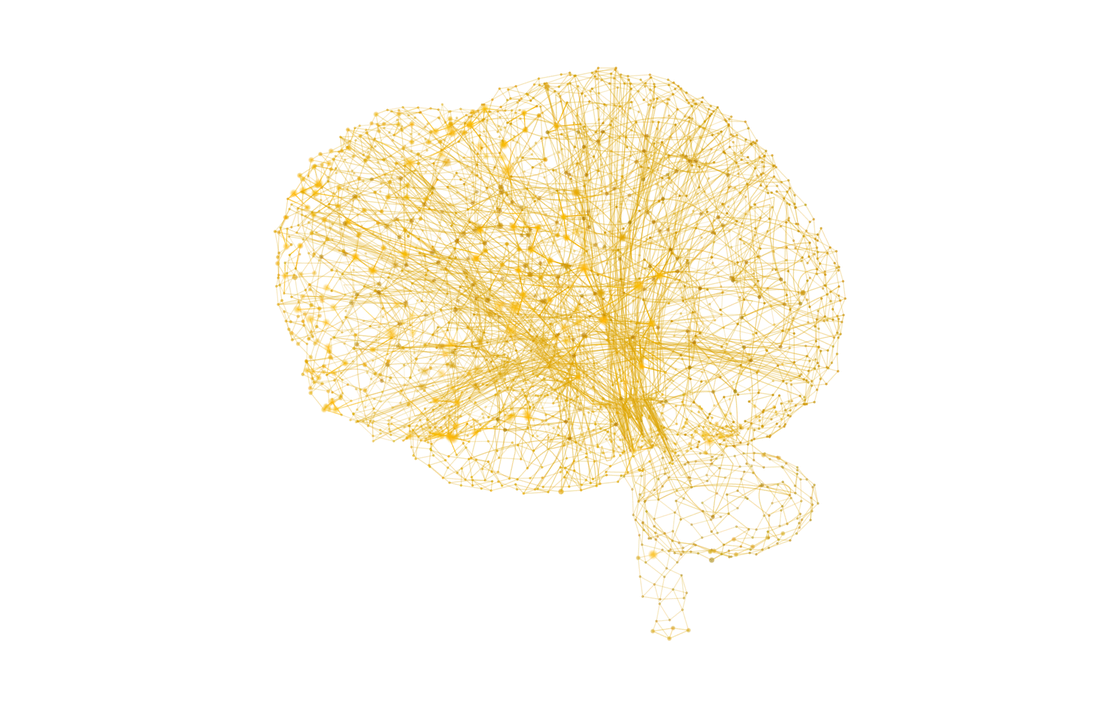
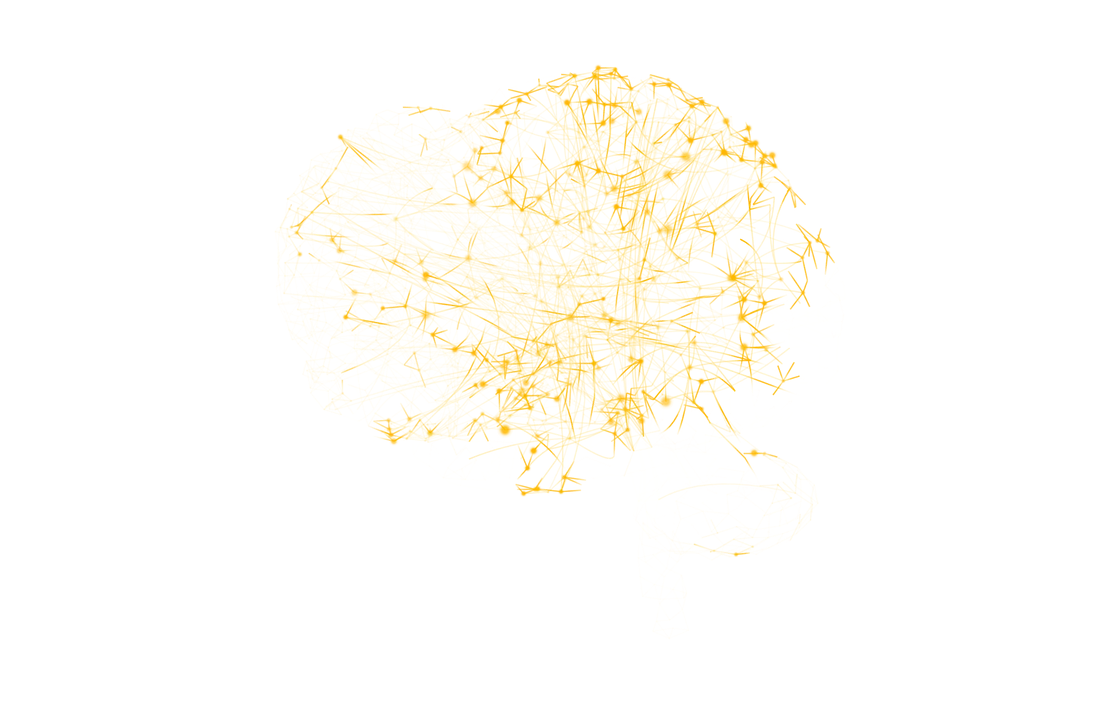
Brain: transparent network, only the electrical impulses are yellow
- The neural network is invisible at rest (no lines, no dots). Only the impulse is drawn,
  in yellow: the spark running along each connection, the glow it leaves behind, and the
  neuron that lights up when it is reached. The brain shows through the impulses.
- Firing times are spread evenly over a 6 second cycle with a monotonic time warp, and the
  speed of each connection is recomputed so the impulse still arrives exactly when the
  receiving neuron fires. The brain is never empty. Eight foci start almost together.
- The clock starts mid-cycle and the hero poster is taken at the same instant, so the
  poster hands over to the live brain without a jump.

Claude-Session: https://claude.ai/code/session_019G1kqDvjGATNWvKmmVUEiP

Changed region(s): [[0.25, 0.0917, 0.75, 0.8861]]

diff --git a/assets/js/agent/brain-neurons.js b/assets/js/agent/brain-neurons.js
@@ -3,7 +3,7 @@
 // blanche. Ils sont reliés à leurs voisins (connexions courtes) et par de longs faisceaux courbes : association (d'une circonvolution à l'autre),
 // commissurales (d'un hémisphère à l'autre), de projection (du cortex vers le centre et le tronc) et du cervelet.
 //
-// L'influx nerveux saute de neurone en neurone. Six foyers s'allument à tour de rôle ; depuis chacun, le signal gagne ses voisins par un plus court
+// L'influx nerveux saute de neurone en neurone. Quatorze foyers s'allument à tour de rôle ; depuis chacun, le signal gagne ses voisins par un plus court
 // chemin (Dijkstra) : une connexion courte prend un instant, un long faisceau est bien plus rapide, et chaque neurone ajoute un petit délai de
 // synapse. Chaque neurone s'allume donc une fois par cycle, à l'instant où le signal l'atteint, puis son influx repart sur toutes les connexions
 // vers les neurones encore au repos. Tout est calculé ici, une fois ; le shader n'a qu'à lire l'heure de chaque neurone et de chaque connexion.
@@ -14,13 +14,13 @@
 //   (positions, longueurs et vitesses sont dans le repère du modèle ; le constructeur les ramène dans le repère final avec le même facteur d'échelle)
 import { rng } from './voxel.js';
 
-export const NET_CYCLE = 9.0;                     // secondes : le cycle complet des six foyers
+export const NET_CYCLE = 6.0;                     // secondes : le cycle complet des foyers
 const SYN = 0.06;                                 // le délai de synapse d'un neurone
 const V_SHORT = 0.55; const V_LONG = 2.2;         // vitesse de l'influx, en unités du modèle par seconde
 const norm3 = (v) => { const l = Math.hypot(v[0], v[1], v[2]) || 1; return [v[0] / l, v[1] / l, v[2] / l]; };
 
-/** Les foyers : où naît le signal. Quatre sur le cortex visible, un au cervelet, un au coeur du cerveau. */
-const FOCI = [[-0.8, 0.16, 0.5], [0.16, 0.66, 0.3], [0.92, 0.0, 0.2], [0.2, -0.54, 0.5], [0.62, -0.8, 0.3], [0.1, -0.15, 0.0]];
+/** Le premier foyer (au lobe frontal) ; les autres s'en déduisent, voir plus bas. */
+const FOCI = [[-0.8, 0.16, 0.5]];
 
 export function makeNeuralNet({ pos, nrm, sdf, tagAt, bbox }, { weak = false, seed = 11 } = {}) {
   const R = rng(seed);
@@ -216,15 +216,25 @@ export function makeNeuralNet({ pos, nrm, sdf, tagAt, bbox }, { weak = false, se
     adjTo[fill[e.a]] = e.b; adjW[fill[e.a]++] = w; adjTo[fill[e.b]] = e.a; adjW[fill[e.b]++] = w;
   });
   const dist = new Float32Array(N).fill(1e9);
-  const foci = FOCI.map((f, k) => {                                // le neurone le plus proche de chaque foyer (le cortex visible pour les cinq premiers)
-    let best = 1e9; let bi = 0;
-    for (let i = 0; i < N; i++) {
-      if (k < 5 ? (kind[i] !== 0 || P[i * 3 + 2] < 0.04) : kind[i] !== 1) continue;
-      const d = (P[i * 3] - f[0]) ** 2 + (P[i * 3 + 1] - f[1]) ** 2 + (P[i * 3 + 2] - f[2]) ** 2;
-      if (d < best) { best = d; bi = i; }
+  // les foyers : le premier au lobe frontal, chacun des suivants le plus loin possible des précédents (l'activité se promène d'une région à l'autre), et un relais
+  // profond au milieu de la liste.
+  const nFoci = weak ? 6 : 8;
+  const foci = [];
+  {
+    const d2 = (i, j) => (P[i * 3] - P[j * 3]) ** 2 + (P[i * 3 + 1] - P[j * 3 + 1]) ** 2 + (P[i * 3 + 2] - P[j * 3 + 2]) ** 2;
+    let first = 0; let bd = 1e9;
+    for (let i = 0; i < nCortex; i++) { const d = (P[i * 3] - FOCI[0][0]) ** 2 + (P[i * 3 + 1] - FOCI[0][1]) ** 2 + (P[i * 3 + 2] - FOCI[0][2]) ** 2; if (d < bd) { bd = d; first = i; } }
+    foci.push(first);
+    const near = new Float32Array(nCortex).fill(1e9);
+    while (foci.length < nFoci - 1) {
+      const last = foci[foci.length - 1]; let far = -1; let fd = -1;
+      for (let i = 0; i < nCortex; i++) { const d = d2(i, last); if (d < near[i]) near[i] = d; if (near[i] > fd) { fd = near[i]; far = i; } }
+      foci.push(far);
     }
-    return bi;
-  });
+    let deep = nCortex; let dd = 1e9;                              // le relais profond le plus proche du centre
+    for (let i = nCortex; i < N; i++) { const d = (P[i * 3] - 0.1) ** 2 + (P[i * 3 + 1] + 0.15) ** 2 + P[i * 3 + 2] ** 2; if (d < dd) { dd = d; deep = i; } }
+    foci.splice(Math.floor(nFoci / 2), 0, deep);
+  }
   const heapN = []; const heapD = [];
   const push = (n, d) => { let i = heapN.length; heapN.push(n); heapD.push(d); while (i > 0) { const p = (i - 1) >> 1; if (heapD[p] <= heapD[i]) break; [heapN[p], heapN[i]] = [heapN[i], heapN[p]]; [heapD[p], heapD[i]] = [heapD[i], heapD[p]]; i = p; } };
   const pop = () => {
@@ -233,7 +243,7 @@ export function makeNeuralNet({ pos, nrm, sdf, tagAt, bbox }, { weak = false, se
     return [n, d];
   };
   foci.forEach((src, k) => {
-    const t0 = k * (NET_CYCLE / FOCI.length);
+    const t0 = k * 0.35;                                            // les foyers partent presque ensemble : autant de fronts qui s'étendent à la fois
     const D = new Float32Array(N).fill(1e9); D[src] = 0; push(src, 0);
     while (heapN.length) {
       const [u, d] = pop();
@@ -242,15 +252,32 @@ export function makeNeuralNet({ pos, nrm, sdf, tagAt, bbox }, { weak = false, se
     }
     for (let i = 0; i < N; i++) if (t0 + D[i] < dist[i]) dist[i] = t0 + D[i];
   });
-  const fire = (i) => ((dist[i] % NET_CYCLE) + NET_CYCLE) % NET_CYCLE;     // l'instant du cycle où le neurone s'allume
+  // L'égalisation du temps : l'influx met environ deux secondes à gagner tout le cerveau, et la plupart des neurones s'allument au milieu de ce temps ; le
+  // reste du cycle serait vide. On répartit donc les instants de façon uniforme sur tout le cycle par une transformation croissante g (la fonction de
+  // répartition des instants de tir). Elle s'applique à tous les événements, et la vitesse de chaque connexion est recalculée pour que l'influx arrive
+  // juste quand le neurone qui le reçoit s'allume : le calendrier reste exact, seule la vitesse de l'influx varie d'une région du cycle à l'autre.
+  const sorted = Float32Array.from(dist).sort();
+  const g = (t) => {
+    let lo = 0; let hi = N;
+    while (lo < hi) { const m = (lo + hi) >> 1; if (sorted[m] < t) lo = m + 1; else hi = m; }
+    if (lo <= 0) return 0;
+    if (lo >= N) return NET_CYCLE * (N - 0.5) / N;
+    const a0 = sorted[lo - 1]; const a1 = sorted[lo];
+    return NET_CYCLE * (lo - 1 + (a1 > a0 ? (t - a0) / (a1 - a0) : 0.5)) / N;
+  };
+  const fire = (i) => Math.min(NET_CYCLE - 0.001, g(dist[i]));
 
-  // 6. les tableaux pour le dessin : chaque connexion est orientée du neurone qui s'allume le premier vers l'autre, et part un délai de synapse après
+  // 6. les tableaux pour le dessin : chaque connexion est orientée du neurone qui s'allume le premier vers l'autre. L'influx part un délai de synapse après le tir
+  // et arrive à l'instant où le neurone reçoit le signal (jamais en moins de 0,12 s : on veut voir la progression de neurone en neurone).
   const segs = []; const fibs = [];
   edges.forEach((e, k) => {
     const { pts, len } = lines[k];
     let from = e.a; let line = pts;
     if (dist[e.b] < dist[e.a]) { from = e.b; line = pts.slice().reverse(); }
-    const start = fire(from) + SYN; const speed = e.long ? V_LONG : V_SHORT;
+    const w = len / (e.long ? V_LONG : V_SHORT) + SYN;                // la durée physique du trajet et de la synapse
+    const start = fire(from) + SYN;
+    const arrive = Math.min(NET_CYCLE, g(dist[from] + w));          // l'instant (égalisé) où le signal arrive
+    const speed = len / Math.max(0.12, arrive - start);
     let acc = 0;
     for (let s = 0; s < line.length - 1; s++) {
       const d = Math.hypot(line[s + 1][0] - line[s][0], line[s + 1][1] - line[s][1], line[s + 1][2] - line[s][2]);

diff --git a/assets/js/agent/smooth.js b/assets/js/agent/smooth.js
@@ -158,17 +158,16 @@ totalEmissiveRadiance += vColor.rgb * (vMat.z * vEm * 1.1) + uGlow * (vGlow * 0.
 }
 
 /**
- * Le cerveau : entièrement transparent, on n'en voit que le réseau de neurones. Les connexions sont des rubans fins qui s'éclairent quand l'influx les
- * parcourt, les neurones des pastilles qui s'allument quand il les atteint. Le calendrier (qui s'allume quand, dans un cycle) est précalculé dans le worker
- * (brain-neurons.js) : le shader lit seulement l'heure. La lumière est ambrée sur le bleu profond de la marque, plus pâle au fond du cerveau.
+ * Le cerveau : entièrement transparent, le réseau de neurones lui-même est invisible. On ne voit que l'influx électrique, en jaune : une étincelle qui court sur chaque
+ * connexion, la lueur qu'elle laisse derrière elle, et le neurone qui s'allume quand elle l'atteint. Le calendrier (qui s'allume quand, dans un cycle) est précalculé
+ * dans le worker (brain-neurons.js) : le shader lit seulement l'heure. Les impulsions dessinent le cerveau en passant.
  */
 function makeNeuralNet(THREE, net, shared) {
   // des jaunes, écrits tels qu'on les veut à l'écran (le shader écrit directement dans le canevas : pas de conversion de couleur)
   const D = (hex) => new THREE.Color().setHex(hex, THREE.LinearSRGBColorSpace);
-  const tints = [0xd9a000, 0xcf9600, 0xe2ae10, 0xc58f00, 0xbd9a3a, 0xa87c00].map(D);
   Object.assign(shared, {
-    uRes: { value: new THREE.Vector2(1, 1) }, uWidth: { value: 1.4 }, uPx: { value: 2.0 }, uDepthR: { value: 1 }, uSizePx: { value: 300 }, uCycle: { value: net.cycle }, uSigma: { value: net.sigma },
-    uBase: { value: D(0xdca300) }, uGlow2: { value: D(0xffb800) }, uTints: { value: tints },
+    uRes: { value: new THREE.Vector2(1, 1) }, uWidth: { value: 1.7 }, uPx: { value: 2.0 }, uDepthR: { value: 1 }, uSizePx: { value: 300 }, uCycle: { value: net.cycle }, uSigma: { value: net.sigma },
+    uBase: { value: D(0xffd34d) }, uGlow2: { value: D(0xffb800) },
   });
   const quad = () => {
     const g = new THREE.InstancedBufferGeometry();
@@ -208,18 +207,18 @@ void main() {
 varying float vU; varying vec4 vF; varying float vDepth;
 uniform float uTime; uniform float uDis; uniform float uCycle; uniform float uSigma; uniform float uSizePx; uniform vec3 uBase; uniform vec3 uGlow2;
 void main() {
-  float len = vF.z;
+  float len = vF.z; float speed = vF.y;
   float cyc = mod(uTime - vF.x, uCycle);                       // le temps écoulé depuis le départ de l'influx sur cette connexion
-  float head = cyc * vF.y;                                     // où est la tête de l'influx, dans l'unité du modèle
-  float d = vU * len - head;
-  float pulse = exp(-d * d / (2.0 * uSigma * uSigma)) * step(head, len + 3.0 * uSigma);
-  float tail = d < 0.0 ? exp(d / (5.0 * uSigma)) * 0.4 * step(head, len + 8.0 * uSigma) : 0.0;
-  float p = clamp(pulse + tail, 0.0, 1.0);
-  float depthK = mix(0.3, 1.0, smoothstep(-0.9, 0.9, vDepth));
-  float densK = clamp(pow(uSizePx / 330.0, 1.6), 0.3, 1.0);       // plus le cerveau est petit, plus ses connexions se superposent : on les allège
-  float base = mix(0.3, 0.44, vF.w) * densK;
-  float a = (base + (0.95 - base) * p) * depthK * (1.0 - smoothstep(0.0, 0.5, uDis));
-  vec3 c = mix(uBase, uGlow2, clamp(p * 1.3, 0.0, 1.0));
+  float d = vU * len - cyc * speed;                            // la distance à la tête de l'influx, dans l'unité du modèle
+  float head = exp(-d * d / (2.0 * uSigma * uSigma));          // la tête : une brève étincelle
+  float tp = cyc - vU * len / speed;                           // le temps écoulé depuis que la tête est passée ici (négatif : elle n'est pas encore arrivée)
+  float glow = tp > 0.0 ? exp(-tp / 0.8) : 0.0;                // la connexion reste allumée un instant derrière l'influx
+  float p = clamp(head + 0.5 * glow, 0.0, 1.0);
+  float depthK = mix(0.35, 1.0, smoothstep(-0.9, 0.9, vDepth));
+  float densK = clamp(pow(uSizePx / 330.0, 1.6), 0.35, 1.0);    // plus le cerveau est petit, plus ses impulsions se superposent : on les allège
+  float a = p * (0.82 + 0.18 * vF.w) * mix(0.75, 1.0, densK) * depthK * (1.0 - smoothstep(0.0, 0.5, uDis));
+  if (a < 0.004) discard;                                      // au repos le réseau est transparent : rien n'est dessiné
+  vec3 c = mix(uBase, uGlow2, clamp(head * 1.2, 0.0, 1.0));
   gl_FragColor = vec4(c, a);
 }`,
   }));
@@ -243,9 +242,9 @@ void main() {
   vec4 mv = modelViewMatrix * vec4(iN.xyz, 1.0);
   vec4 cp = projectionMatrix * mv;
   float cyc = mod(uTime - iN.w, uCycle);                       // le temps écoulé depuis que ce neurone s'est allumé
-  float flash = exp(-cyc * 3.2);
+  float flash = exp(-cyc * 1.8);                               // l'éclat dure environ une seconde et demie
   vFlash = flash; vTint = iT.x;
-  float rpx = uPx * iT.y * (1.0 + 2.6 * flash);
+  float rpx = uPx * iT.y * (0.6 + 2.8 * flash);
   vec2 c2 = vec2(corner.x * 2.0 - 1.0, corner.y);
   vC = c2;
   gl_Position = cp + vec4(c2 * rpx * 2.0 / uRes * cp.w, 0.0, 0.0);
@@ -254,17 +253,17 @@ void main() {
 }`,
     fragmentShader: `precision highp float;
 varying vec2 vC; varying float vFlash; varying float vTint; varying float vDepth;
-uniform float uDis; uniform float uSizePx; uniform vec3 uGlow2; uniform vec3 uTints[6];
+uniform float uDis; uniform float uSizePx; uniform vec3 uBase; uniform vec3 uGlow2;
 void main() {
   float r = length(vC);
   if (r > 1.0) discard;
-  vec3 rest = uTints[int(vTint + 0.5)];
-  float core = 1.0 - smoothstep(0.55, 1.0, r);                 // une pastille nette au repos
-  float glow = exp(-r * r * 3.6);                              // un halo qui s'ouvre quand le neurone s'allume
-  float k = clamp(vFlash * 1.6, 0.0, 1.0);
-  float densK = clamp(pow(uSizePx / 330.0, 1.6), 0.3, 1.0);
-  float a = mix(core * 0.8 * mix(0.6, 1.0, densK), glow * 0.95 + core * 0.3, k);
-  vec3 c = mix(rest, uGlow2, k);
+  float k = clamp(vFlash * 1.5, 0.0, 1.0);                     // un neurone n'existe à l'écran que lorsqu'il s'allume
+  float core = 1.0 - smoothstep(0.35, 0.8, r);
+  float glow = exp(-r * r * 3.4);
+  float densK = clamp(pow(uSizePx / 330.0, 1.6), 0.35, 1.0);
+  float a = k * (glow * 0.85 + core * 0.4) * mix(0.75, 1.0, densK);
+  if (a < 0.004) discard;
+  vec3 c = mix(uBase, uGlow2, clamp(k * 1.3, 0.0, 1.0));
   float depthK = mix(0.35, 1.0, smoothstep(-0.9, 0.9, vDepth));
   gl_FragColor = vec4(c, clamp(a, 0.0, 1.0) * depthK * (1.0 - smoothstep(0.0, 0.5, uDis)));
 }`,
@@ -366,7 +365,7 @@ export function createSmooth(THREE, agent, shapes, { palette, weak = false, onRe
     s.group.visible = show;
     if (!show) return;
     if (s.shared) { s.shared.uDis.value = dissolve; s.shared.uTime.value = time; }
-    if (s.net) { agent.renderer.getDrawingBufferSize(size); const px = size.y / Math.max(1, agent.renderer.domElement.clientHeight); s.shared.uRes.value.copy(size); s.shared.uWidth.value = 1.4 * px; s.shared.uPx.value = 2.0 * px; }
+    if (s.net) { agent.renderer.getDrawingBufferSize(size); const px = size.y / Math.max(1, agent.renderer.domElement.clientHeight); s.shared.uRes.value.copy(size); s.shared.uWidth.value = 1.7 * px; s.shared.uPx.value = 2.0 * px; }
     for (const m of s.meshes) { const u = m.material.userData && m.material.userData.u; if (u && u.uDis && m.material.userData.u !== s.shared) { u.uDis.value = dissolve; u.uTime.value = time; if (u.uLook) { u.uLook.value.set(look ? look.x : 0, look ? look.y : 0); u.uAnim.value = 1 - clamp(dissolve * 2.5); u.uWave.value = wave; } } }
   };
 

diff --git a/assets/js/agent/director.js b/assets/js/agent/director.js
@@ -66,7 +66,7 @@ export async function startAgent({ canvas, low = false, frozen = null }) {
   const fit = (r, k, f = 0.95) => Math.min((r.width / 2) / ext[k][0], (r.height / 2) / ext[k][1]) * f;
 
   // l'état amorti
-  const S = { step: 1, shownAt: null, brainSeen: false, look: { x: 0, y: 0 }, P: null, u: null, time: 0, vy: 0, py: null, spinT: 9, burst: 0, hover: 0, click: null };
+  const S = { step: 1, shownAt: null, brainSeen: false, look: { x: 0, y: 0 }, P: null, u: null, time: 2.2, vy: 0, py: null, spinT: 9, burst: 0, hover: 0, click: null };
   let last = performance.now();
   const dbg = { a: 0, b: 0, mix: 0, u: 0, P: 0, anchor: null, n };
 

diff --git a/README.md b/README.md
@@ -8,14 +8,14 @@ Le site est blanc, épuré, dans l'esprit d'une landing page SaaS, et raconte un
 
 | Page | Rôle |
 | --- | --- |
-| `index.html` | L'accueil, dans cet ordre : **le titre** « Discovering the future of medicine » (le cerveau, un réseau de neurones jaune et transparent, et le titre seul, au centre, tout de suite), **Our why** (la raison d'être, le drug rescue), **Where science meets the startup spirit** (un carrousel infini d'images), **Our agent** (NovaDiff, le robot, et les programmes actuels en puces), **Science** « Small structures. Big questions. » (le récepteur, le binder, la cascade), **le blog** « Our articles for startups & people » (six articles dans un carrousel infini) et **Contact** (un seul bouton, qui répond au curseur). |
+| `index.html` | L'accueil, dans cet ordre : **le titre** « Discovering the future of medicine » (le cerveau transparent, dont seules les impulsions électriques jaunes se voient, et le titre seul, au centre, tout de suite), **Our why** (la raison d'être, le drug rescue), **Where science meets the startup spirit** (un carrousel infini d'images), **Our agent** (NovaDiff, le robot, et les programmes actuels en puces), **Science** « Small structures. Big questions. » (le récepteur, le binder, la cascade), **le blog** « Our articles for startups & people » (six articles dans un carrousel infini) et **Contact** (un seul bouton, qui répond au curseur). |
 | `careers.html` | Carrières : pourquoi nous rejoindre, profil, compétences et l'offre **Serial Biotech Builder** (garant scientifique, valeur de la licence, exigences d'une vente après l'in vivo, capacité à les défendre). |
 
 ## Ce que fait l'agent (le fil conducteur)
 
 Un même objet traverse la page. Le canevas 3D est **derrière le texte** (l'animation ne passe jamais par-dessus).
 
-1. **Le titre.** Aucune animation d'ouverture : le cerveau est là tout de suite, **entièrement transparent**. Il ne reste que son **réseau de neurones, en jaune** : des milliers de neurones posés sous la peau du cortex (qui dessine les circonvolutions) et au cœur du cerveau, reliés par des connexions courtes et de longs faisceaux. L'influx nerveux **saute de neurone en neurone** : six foyers s'allument à tour de rôle et, depuis chacun, le signal gagne ses voisins par le plus court chemin, une connexion courte prend un instant, un long faisceau est bien plus rapide, et chaque neurone s'allume en recevant le signal avant de le renvoyer. Le titre est affiché en même temps, seul, au centre.
+1. **Le titre.** Aucune animation d'ouverture : le cerveau est là tout de suite, **entièrement transparent**. Son réseau de neurones est invisible : on ne voit que **l'influx électrique, en jaune**. Des milliers de neurones sont posés sous la peau du cortex (qui dessine les circonvolutions) et au cœur du cerveau, reliés par des connexions courtes et de longs faisceaux. L'influx **saute de neurone en neurone** : huit foyers s'allument presque ensemble et, depuis chacun, le signal gagne ses voisins par le plus court chemin, une connexion courte prend un instant, un long faisceau est bien plus rapide, et chaque neurone s'allume en recevant le signal avant de le renvoyer. Les instants de tir sont répartis de façon uniforme sur un cycle de 6 secondes (la vitesse de l'influx s'adapte pour que le signal arrive juste quand le neurone s'allume), si bien que le cerveau n'est jamais vide : les étincelles et leur lueur dessinent ses circonvolutions en passant. Le titre est affiché en même temps, seul, au centre.
 2. **Our why.** Le cerveau glisse à droite du texte.
 3. **De la culture à l'agent.** Le cerveau se brise en petits cubes métalliques qui filent en une traînée fine jusqu'au robot NovaDiff, lisse et réaliste. Le robot est un **vrai personnage animé en 3D** : il se retourne sur lui-même en se formant (un tour, lié au défilement), puis salue ; il flotte, pivote doucement, se penche quand on défile vite, sa tête et ses yeux suivent le curseur, ses yeux clignent, son bras droit salue (l'épaule lève le bras, le coude balance l'avant-bras, le poignet agite la main), son anneau tourne, sa flamme vacille. Le curseur qui s'en approche le fait saluer, **un clic le fait tourner sur lui-même**.
 4. **Science** (une scène épinglée de plusieurs écrans). Le robot descend, se brise en cubes qui se replient en une vraie protéine de style AlphaFold (trois hélices, une épingle bêta, des boucles, colorées par confiance aux teintes de la marque) qui s'insère dans la poche d'un récepteur couplé aux protéines G, dans une membrane. Le récepteur s'active, puis une cascade de signalisation s'allume, nœud après nœud : **une fois la protéine fixée, plus aucune traînée de cubes**, seuls le récepteur, la protéine et la cascade (en maillage) s'animent. À gauche, **une explication simple en quatre étapes** s'allume avec la scène : *choisir une cible* (un récepteur qui commande une voie biologique), *générer par diffusion* (l'agent part du bruit et façonne la protéine pas à pas), *optimiser en temps réel* (il vérifie qu'elle se replie, reste stable et se fixe fermement, jusqu'à être biophysiquement optimisée) puis *activer ou inhiber la voie* (la protéine fait tourner la clé, ou bloque la serrure). Une phrase d'amorce donne l'objectif : concevoir une protéine pour une cible, c'est fabriquer la bonne clé pour la bonne serrure.
@@ -31,7 +31,7 @@ Tout ce qui dépend du défilement est **amorti** (l'animation reste fluide mêm
 | `agent.js` | Le moteur de cubes (three.js, un seul `InstancedMesh`, tout dans les shaders). Les cubes sont des boîtes biseautées, au reflet métallique calculé dans le fragment shader (un studio de lumière). Les cubes partent un à un, filent sur une route courbe commune et se posent ; il y a aussi l'éclaircie des transitions (`uKeep` : seule une fraction des cubes existe pendant un voyage). |
 | `shape-brain.js`, `shape-robot.js`, `shape-ligand.js`, `shape-stream.js` | Les formes : un champ de distance signée, rempli de cubes (coque de voxels). Elles exportent aussi leur champ pour le maillage lisse (`shape-split.js` n'est plus utilisé). |
 | `mesher.js`, `smooth-build.js`, `refine.js`, `brain-neurons.js`, `mesh.worker.js` | Le maillage lisse et le réseau. Surface Nets sur le champ de distance (pour le cerveau, un maillage grossier qui sert seulement à poser les neurones sous la peau du cortex). `brain-neurons.js` fabrique les neurones, les connexions et le calendrier de l'influx (Dijkstra depuis les six foyers, un instant de tir par neurone et par connexion), `refine.js` recoupe pour le robot les seuls triangles qui touchent une frontière entre deux matières. Tout tourne dans un **worker** ; l'affiche (une image du même cerveau) reste à l'écran au plus 25 secondes. |
-| `smooth.js` | Les objets lisses : le cerveau (neurones en pastilles qui s'allument, connexions en rubans fins où court l'influx, tout lu dans un cycle de 9 secondes) et le robot (matériau physique, une matière par sommet : plaques blanches vernies, métal brossé, verre sombre, yeux ambrés qui brillent ; chaque pièce s'anime dans le vertex shader : la **tête suit le curseur**, les **yeux clignent**, les **bras sont écorchés en douceur** (épaule, coude, poignet : le bras droit salue), l'anneau tourne, l'antenne oscille, la flamme vacille ; le mouvement d'ensemble, le tour d'arrivée et le clic sont réglés par `director.js`). Le « dissolve » par cases cubiques utilise le même hachage que le moteur de cubes : jamais de trou ni de doublon. |
+| `smooth.js` | Les objets lisses : le cerveau (réseau invisible, seules les impulsions jaunes se voient : l'étincelle qui court sur chaque connexion, sa lueur, le neurone qui s'allume ; tout est lu dans un cycle de 6 secondes) et le robot (matériau physique, une matière par sommet : plaques blanches vernies, métal brossé, verre sombre, yeux ambrés qui brillent ; chaque pièce s'anime dans le vertex shader : la **tête suit le curseur**, les **yeux clignent**, les **bras sont écorchés en douceur** (épaule, coude, poignet : le bras droit salue), l'anneau tourne, l'antenne oscille, la flamme vacille ; le mouvement d'ensemble, le tour d'arrivée et le clic sont réglés par `director.js`). Le « dissolve » par cases cubiques utilise le même hachage que le moteur de cubes : jamais de trou ni de doublon. |
 | `receptor.js`, `binder.js` | La membrane, le récepteur à sept hélices et le binder (protéine style AlphaFold, rubans extrudés et colorés par confiance). `shape-ligand.js` en est la version en cubes. |
 | `signal.js`, `shape-stream.js` | `signal.js` : la protéine G et la cascade de signalisation, en maillage (c'est elle qui montre la suite, une fois la protéine fixée). `shape-stream.js` : un flux de cubes qui n'est plus utilisé dans la page, seulement dans le labo. |
 | `director.js` | Le chef d'orchestre : lit les emplacements dans la page (`data-slot`), la progression de la scène épinglée, le curseur, et règle à chaque image l'objet lisse, les cubes et la caméra. |
